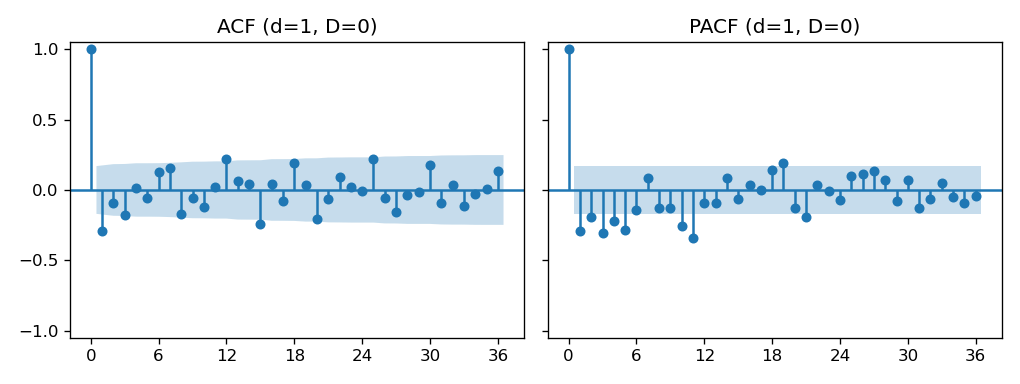
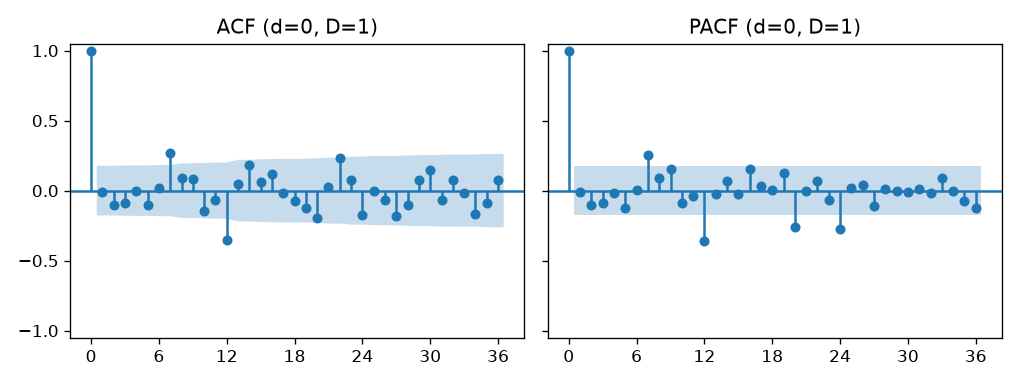
Parte 3: elección (d, D) = (0, 1) justificada y sección 4 del informe
- estacionariedad: (d, D) pasa de (1, 0) a (0, 1), con comentario que explica el cambio; la serie elegida se construye a partir de d y D; se agrega la ADF de la original con 'c' y la comparación con la alternativa diff().
- Informe, sección 4: pruebas ADF, empate y justificación, rezagos fuera de banda y SARIMA(0,0,0)(0,1,1)12 como punto de partida.

diff --git a/miniproyecto.py b/miniproyecto.py
@@ -192,6 +192,10 @@ def estacionariedad(serie):
     """
     combinaciones = [
         ("original (d=0, D=0)", serie, "ct", 0, 0),
+        # Extra: la original con 'c'. Su p (≈0.10) muestra que la tendencia es
+        # débil; 'ct' se usa para no confundir una posible recta con una raíz
+        # unitaria, no porque la tendencia sea evidente (ver parte 2).
+        ("original (d=0, D=0)", serie, "c", 0, 0),
         ("diff() (d=1, D=0)", serie.diff(), "c", 1, 0),
         ("diff(12) (d=0, D=1)", serie.diff(12), "c", 0, 1),
         ("diff(12).diff() (d=1, D=1)", serie.diff(12).diff(), "c", 1, 1),
@@ -203,22 +207,55 @@ def estacionariedad(serie):
         p_str = f"{p:.4e}" if p < 1e-4 else f"{p:.4f}"
         print(f"  {nombre:28s} (reg='{reg}'): valor p = {p_str}")
 
-    # Regla: combinación con menos diferencias cuyo valor p queda bajo 0.05
-    d, D = 1, 0
+    # Regla del curso: la combinación con menos diferencias cuyo valor p queda
+    # bajo 0.05. Aquí hay un empate: diff() (d=1, D=0) y diff(12) (d=0, D=1)
+    # pasan las dos con una sola diferencia.
+    #
+    # Modificación: antes se elegía (d, D) = (1, 0). Se cambia a (0, 1) porque:
+    # - la serie no tiene tendencia sino un ciclo anual (parte 2), así que la
+    #   diferencia que corresponde es la estacional;
+    # - con diff() el ciclo anual no se va: la ACF conserva una barra positiva
+    #   en el rezago 12, y la barra negativa en 1 junto con la PACF negativa en
+    #   los rezagos 1 a 5 son señal de diferenciar de más;
+    # - ADF no detecta raíces unitarias estacionales, así que su p bajo con
+    #   diff() no garantiza que la estacionalidad se haya ido;
+    # - es la misma elección del taller 1.
+    d, D = 0, 1
     print(f"\nÓrdenes elegidos: d = {d}, D = {D}")
 
-    # Serie diferenciada elegida
-    x = serie.diff().dropna()
+    # Serie diferenciada elegida, construida a partir de d y D para que la
+    # figura y los rezagos correspondan siempre a la elección
+    x = serie.copy()
+    if D:
+        x = x.diff(PERIODO)
+    if d:
+        x = x.diff()
+    x = x.dropna()
 
     def fuera(valores, intervalo):
         """Rezagos (sin el 0) cuyo valor sale de la banda centrada en cero."""
         banda = intervalo[:, 1] - valores
         return [k for k in range(1, len(valores)) if abs(valores[k]) > banda[k]]
 
-    rez_acf = fuera(*acf(x, nlags=36, alpha=0.05))
-    rez_pacf = fuera(*pacf(x, nlags=36, alpha=0.05, method="ywm"))
-    print(f"Rezagos fuera de banda en ACF : {rez_acf}")
-    print(f"Rezagos fuera de banda en PACF: {rez_pacf}\n")
+    def con_valores(rezagos, valores):
+        return ", ".join(f"{k} ({valores[k]:+.2f})" for k in rezagos)
+
+    valores_acf, intervalo_acf = acf(x, nlags=36, alpha=0.05)
+    valores_pacf, intervalo_pacf = pacf(x, nlags=36, alpha=0.05, method="ywm")
+    rez_acf = fuera(valores_acf, intervalo_acf)
+    rez_pacf = fuera(valores_pacf, intervalo_pacf)
+    print(f"Serie elegida: {len(x)} datos, banda aproximada ±{1.96 / np.sqrt(len(x)):.3f}")
+    print(f"Rezagos fuera de banda en ACF : {con_valores(rez_acf, valores_acf)}")
+    print(f"Rezagos fuera de banda en PACF: {con_valores(rez_pacf, valores_pacf)}")
+
+    # Comparación con la alternativa descartada, diff() (d=1, D=0): respalda
+    # la elección con las cifras que se citan en el informe
+    alterna = serie.diff().dropna()
+    valores_alt, intervalo_alt = acf(alterna, nlags=36, alpha=0.05)
+    valores_palt, intervalo_palt = pacf(alterna, nlags=36, alpha=0.05, method="ywm")
+    print("Alternativa descartada diff() (d=1, D=0):")
+    print(f"  ACF  fuera de banda: {con_valores(fuera(valores_alt, intervalo_alt), valores_alt)}")
+    print(f"  PACF fuera de banda: {con_valores(fuera(valores_palt, intervalo_palt), valores_palt)}\n")
 
     # Gráfica de ACF y PACF
     fig, ejes = plt.subplots(1, 2, figsize=(8.5, 3.2), sharey=True)

diff --git a/docs/informe.md b/docs/informe.md
@@ -157,12 +157,53 @@ prueba. Por qué ningún dato posterior al origen entra al modelo.}}
 
 ## 4. Estacionariedad e identificación
 
-{{Valor p de la prueba ADF para la serie, su diferencia regular, la
-estacional y las dos juntas. El d y el D elegidos.}}
+Un SARIMA necesita una serie **estacionaria**, que oscile alrededor de un
+nivel fijo. Para lograrlo se puede diferenciar: restar el mes anterior
+($d = 1$) quita una tendencia, y restar el mismo mes del año anterior
+($D = 1$) quita el ciclo anual. La prueba ADF decide si hace falta: su
+hipótesis nula es que la serie **no** es estacionaria, y un valor p menor
+que 0.05 la rechaza. En la serie original se usa `regression='ct'` (constante
+y tendencia), para no confundir una posible recta con falta de
+estacionariedad; en las diferenciadas, `'c'`, porque ya no tienen tendencia.
+
+| Versión | $d$ | $D$ | `regression` | Valor p |
+|---|---|---|---|---|
+| Original | 0 | 0 | `ct` | 0.2092 |
+| Original | 0 | 0 | `c` | 0.0992 |
+| `diff()` | 1 | 0 | `c` | $3.1 \times 10^{-11}$ |
+| `diff(12)` | 0 | 1 | `c` | **0.0033** |
+| `diff(12).diff()` | 1 | 1 | `c` | 0.0017 |
+
+La original no pasa la prueba. La regla del curso es elegir la combinación
+con **menos diferencias** que pase, y aquí hay un empate: `diff()` y
+`diff(12)` pasan las dos con una sola diferencia. Se elige
+**$d = 0$, $D = 1$** por tres razones:
+
+- La serie no tiene tendencia sino un ciclo anual (sección 2), así que la
+  diferencia que corresponde es la estacional.
+- Con `diff()` el ciclo anual no desaparece: su ACF todavía tiene una barra
+  positiva en el rezago 12 (+0.22). Además, la barra negativa en el rezago 1
+  (−0.29) y la PACF negativa en los rezagos 1 a 5 son la señal de
+  **diferenciar de más**. La ADF no detecta este problema, porque no está
+  pensada para el ciclo estacional.
+- Es la misma elección del taller 1.
+
+Con la serie elegida, $w_t = y_t - y_{t-12}$ (122 datos, banda de
+$\pm 1.96/\sqrt{122} \approx \pm 0.177$):
 
 ![ACF y PACF](../figuras/acf_pacf.png)
 
-{{Qué rezagos salen de las bandas y qué órdenes sugieren.}}
+- **ACF fuera de la banda:** rezagos 7 (+0.27) y 12 (−0.35).
+- **PACF fuera de la banda:** rezagos 7 (+0.25), 12 (−0.36), 20 (−0.26) y
+  24 (−0.28).
+
+La ACF **se corta** en el rezago 12 y la PACF **baja poco a poco** en 12 y
+24: es la firma de un término **MA estacional** ($Q = 1$). En los rezagos
+cortos no queda casi nada, lo que sugiere $p = q = 0$. El punto de partida
+para la sección 5 es entonces un **SARIMA$(0,0,0)(0,1,1)_{12}$**. La barra en
+el rezago 7 probablemente es azar: con 36 rezagos y bandas al 95 % se esperan
+unas $36 \times 0.05 \approx 1.8$ barras fuera por casualidad, y no hay un
+motivo físico para una relación de 7 meses.
 
 ## 5. Modelos clásicos
 
